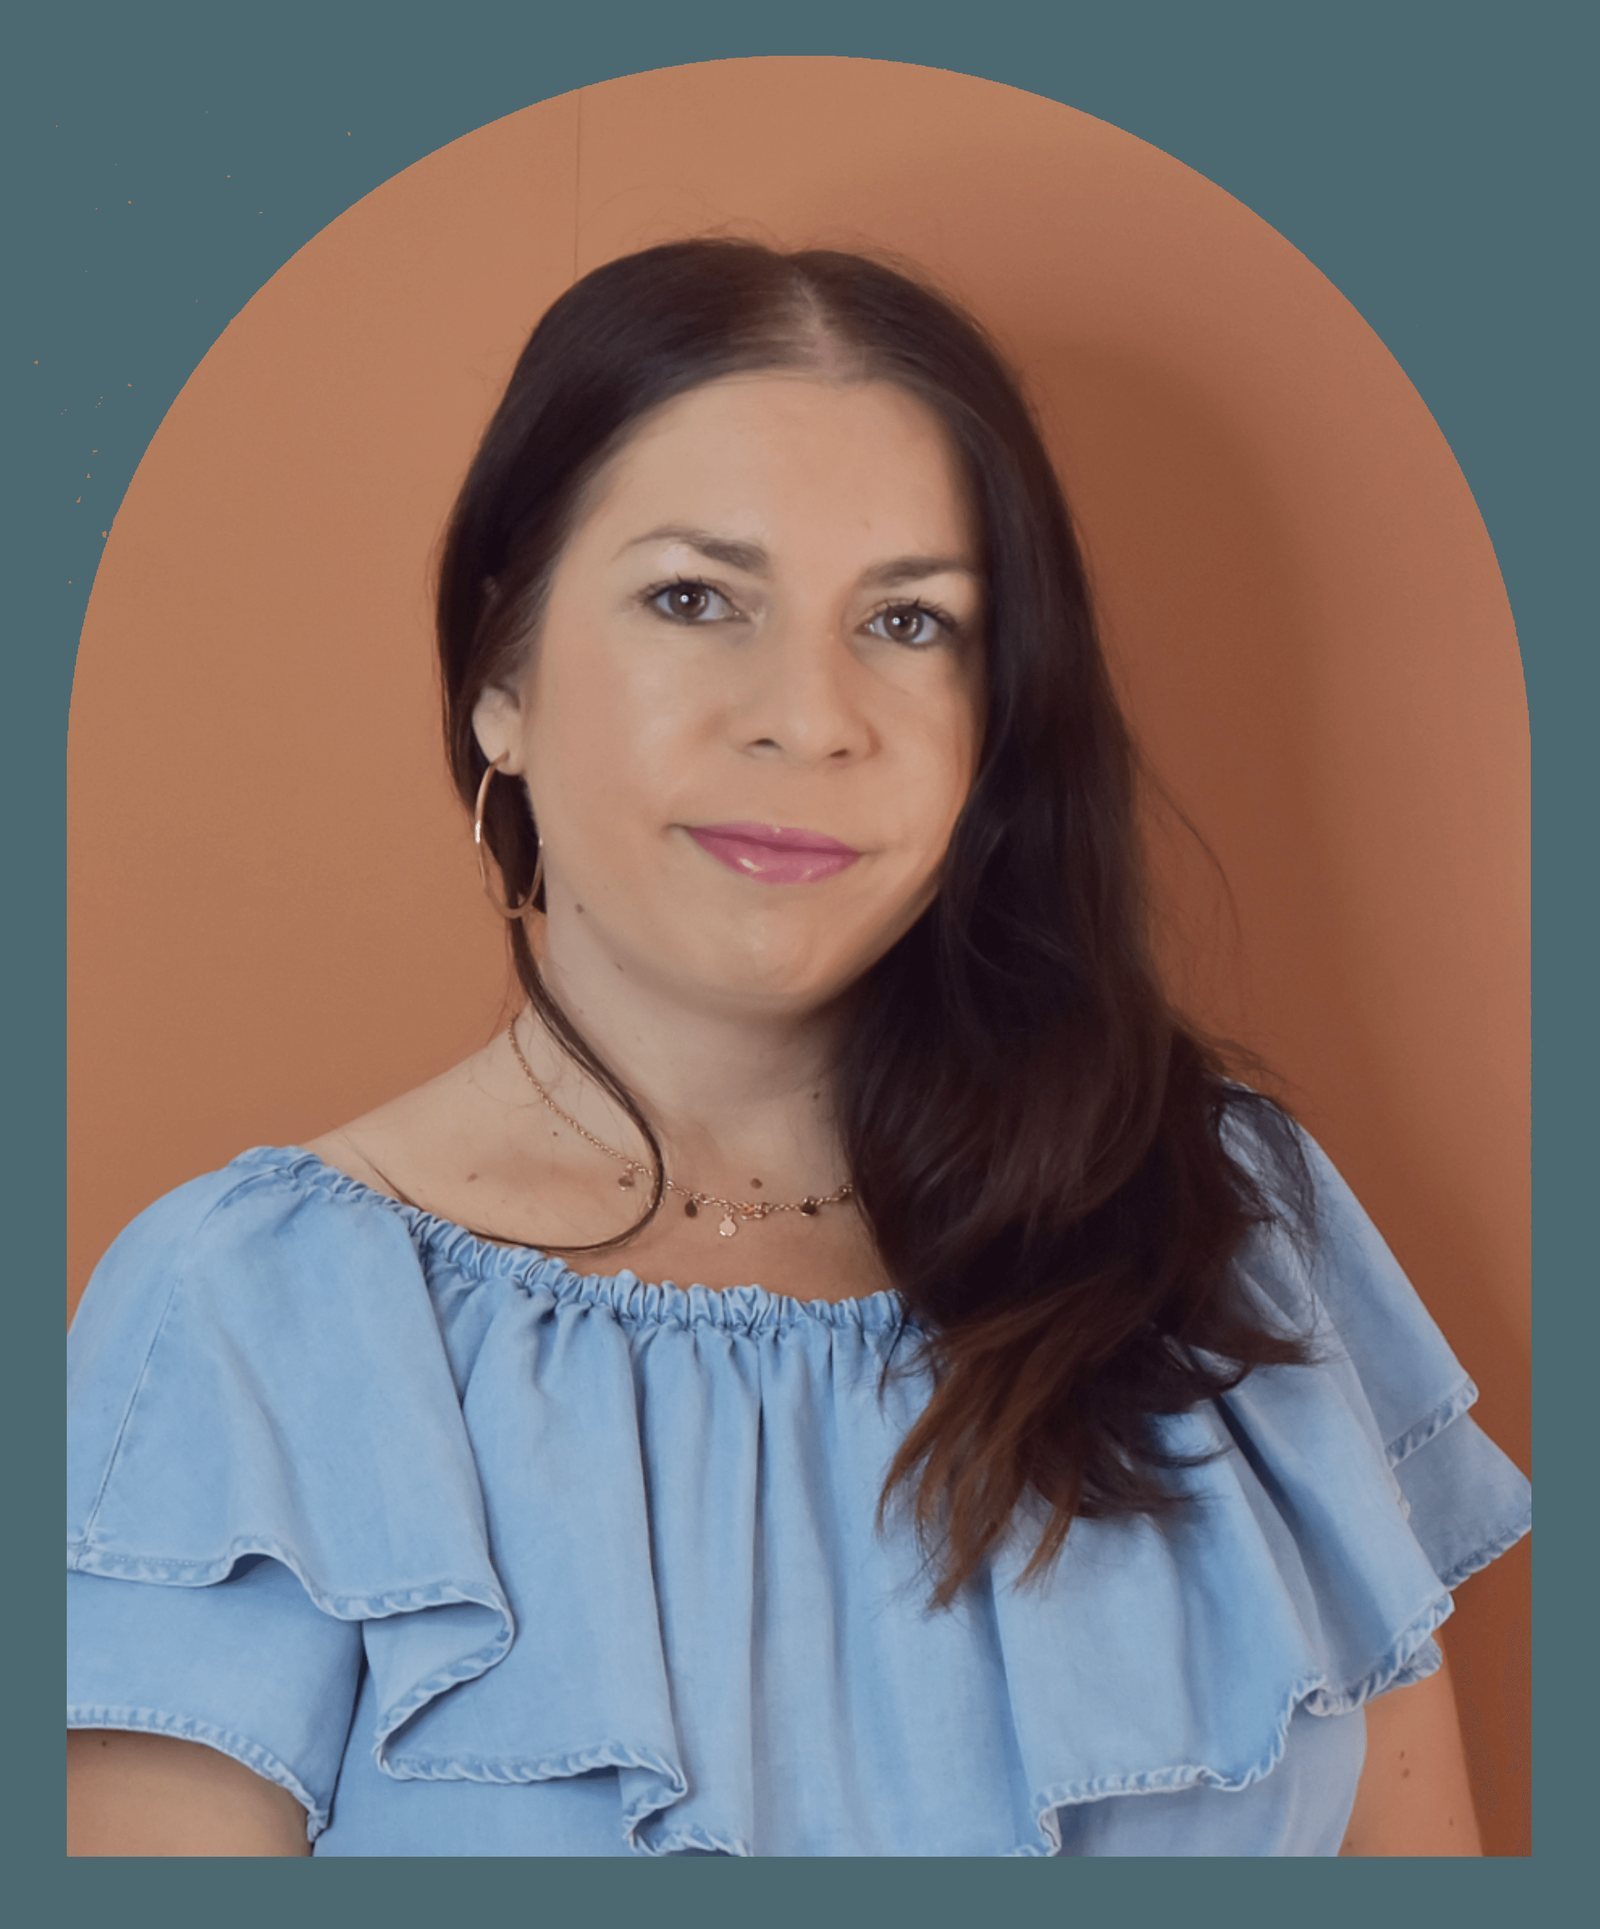
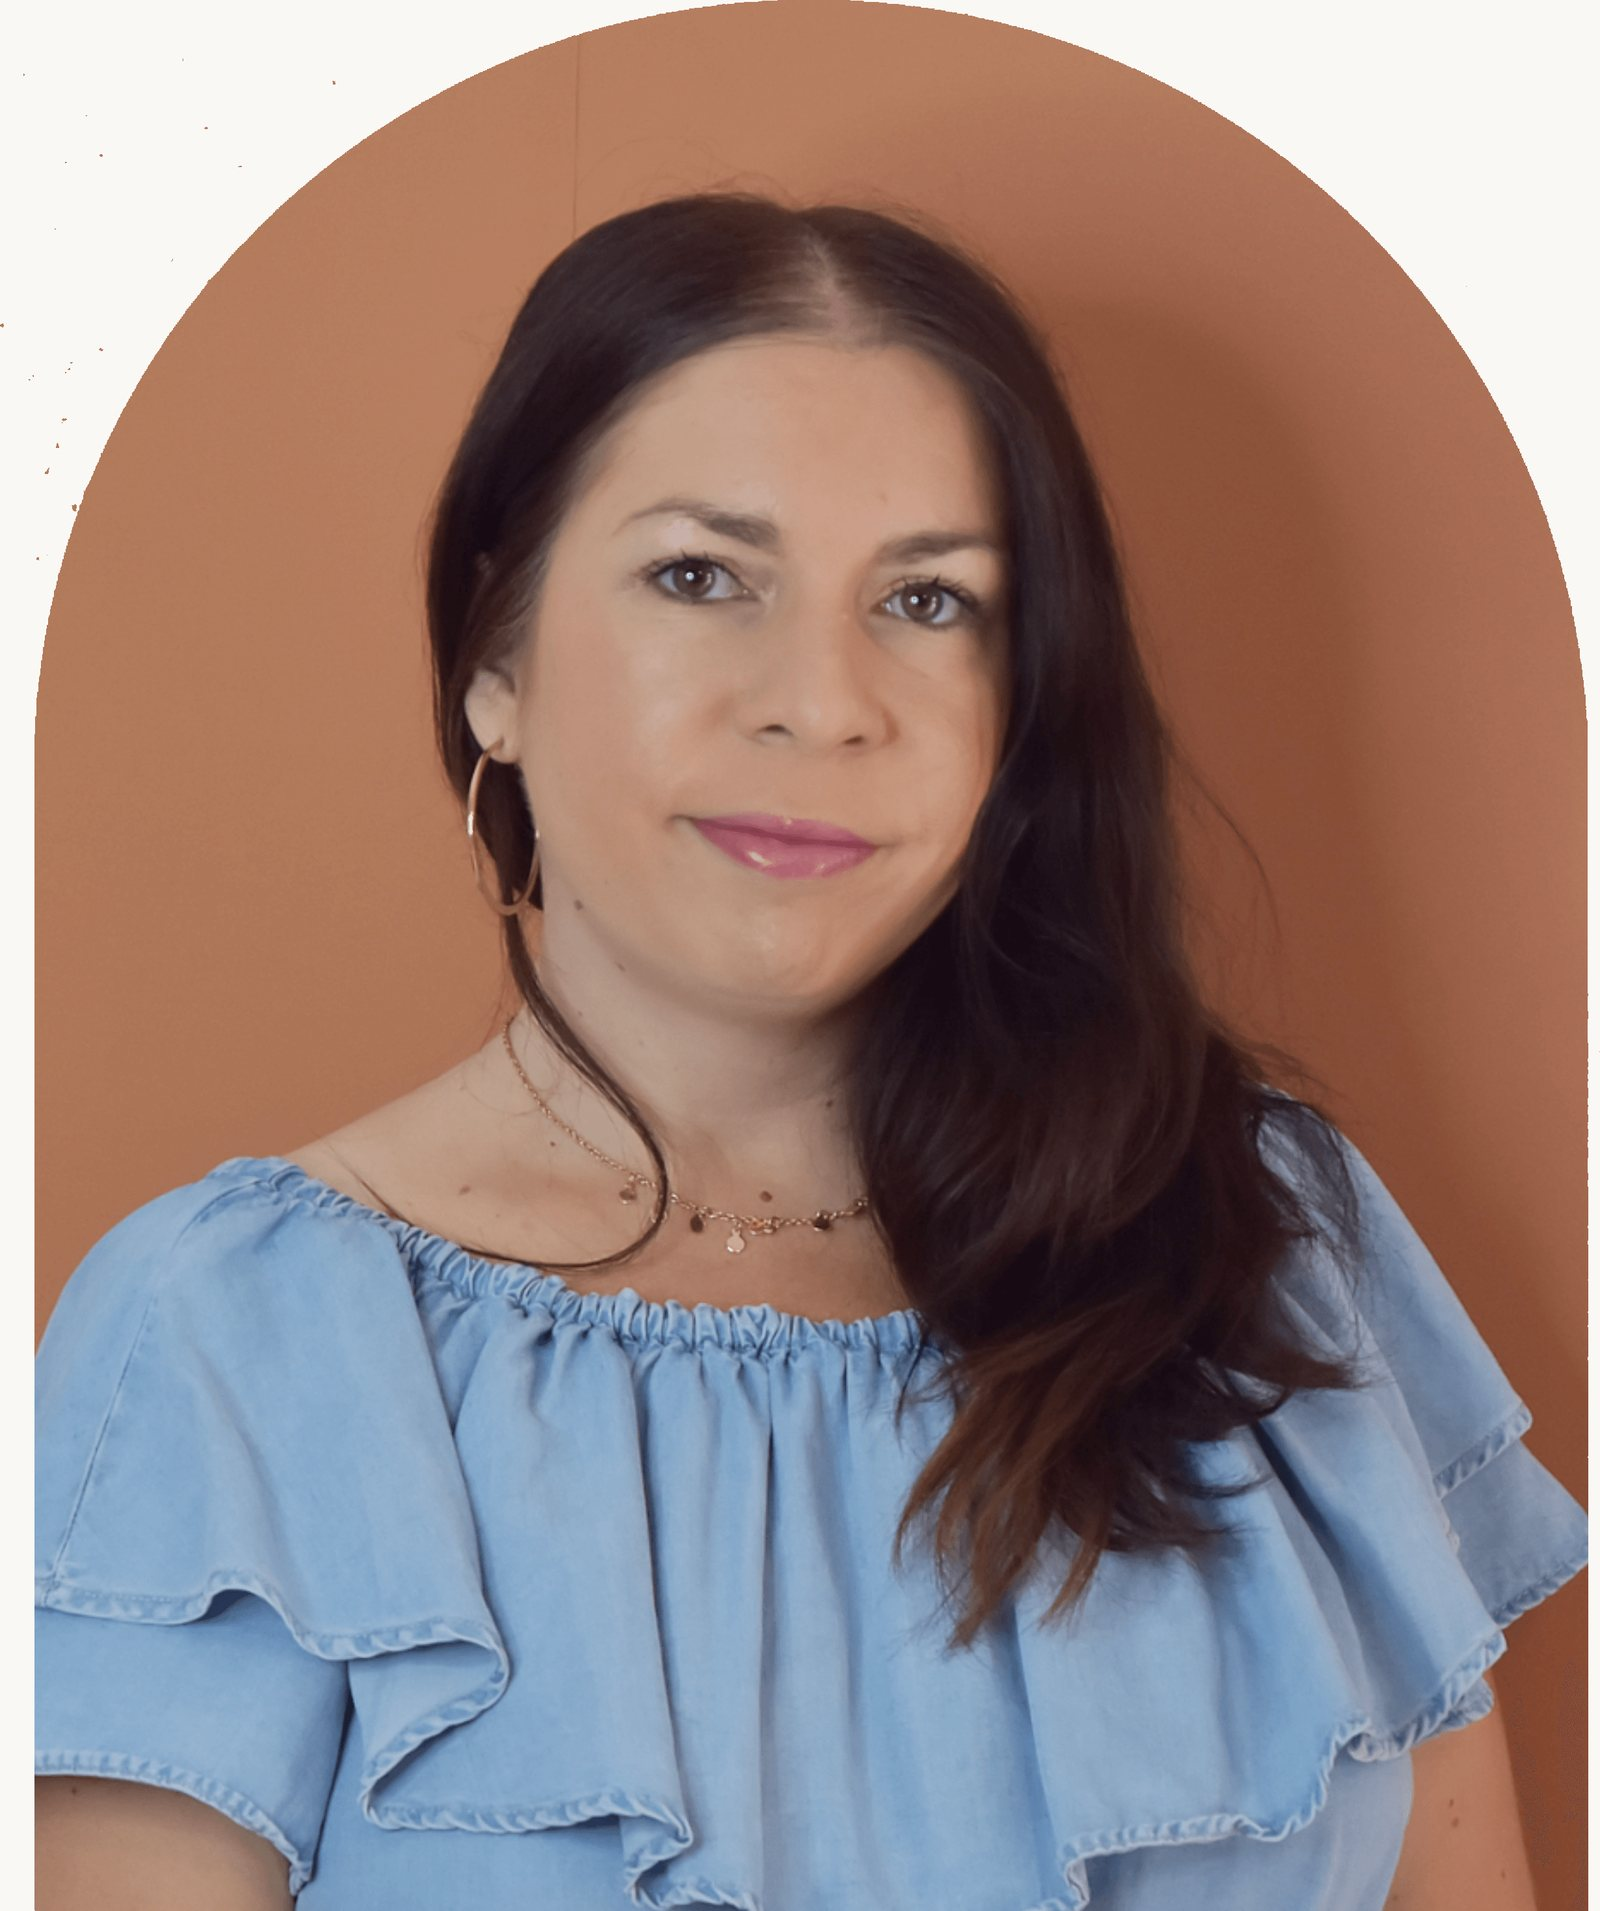
fix(visuels): portrait sur fond crème recadré sur l'arche, textes alternatifs fidèles au cadrage (suivi de revue)

diff --git a/src/config/media.ts b/src/config/media.ts
@@ -3,7 +3,8 @@
  * portrait). Importe des images : réservé aux composants et aux pages, `lib/` ne l'importe jamais.
  *
  * Images reprises de l'ancien site d'Amandine (2026-11-21) : rendus 3D en 2560 × 1440, portrait
- * en 2611 × 3148. TODO(contenu): originaux HD (rendus 4K, portrait) à demander à Amandine.
+ * en 1600 × 1911 (source PNG détourée de 2611 × 3148, transparence remplie en crème
+ * `--color-cream`). TODO(contenu): originaux HD (rendus 4K, portrait) à demander à Amandine.
  */
 import type { ImageMetadata } from 'astro';
 import livingRendering from '@/assets/brand/rendu-salon-lumineux.jpg';
@@ -11,7 +12,7 @@ import kitchenRendering from '@/assets/brand/rendu-cuisine-verriere.jpg';
 import portraitImage from '@/assets/brand/portrait-amandine.jpg';
 // Seule paire « rendu 3D / photo du résultat » publiée par Amandine : chambre d'enfant sous combles.
 // Le rendu est recadré au point de vue de la photo, mais les deux prises de vue ne sont pas
-// identiques. TODO(contenu): paire cadrée à l'identique, photo du résultat en HD (actuelle : 760 px).
+// identiques. TODO(contenu): paire cadrée à l'identique, photo du résultat en HD (actuelle : 676 × 507).
 import compareRendering from '@/assets/projets/chambre-enfant-dinosaures/comparatif-rendu-3d.jpg';
 import compareResult from '@/assets/projets/chambre-enfant-dinosaures/comparatif-realise.jpg';
 
@@ -39,11 +40,11 @@ export interface SiteMedia {
 export const media: SiteMedia = {
   homeHero: {
     image: livingRendering,
-    alt: 'Rendu 3D d’un salon lumineux : canapé d’angle blanc, coussins orangés, tables basses en bois et mur en tasseaux',
+    alt: 'Rendu 3D d’un séjour lumineux : canapé blanc aux coussins orangés, tables basses en bois, cuisine ouverte sur mur de pierre',
   },
   methodHero: {
     image: kitchenRendering,
-    alt: 'Rendu 3D d’une cuisine ouverte : verrière noire, îlot blanc, tabourets en rotin et suspensions dorées',
+    alt: 'Rendu 3D d’une cuisine ouverte : meubles vert sauge, fenêtre en arche, comptoir blanc, tabourets en rotin et verrière noire',
   },
   methodCompare: {
     rendering: {
@@ -52,11 +53,11 @@ export const media: SiteMedia = {
     },
     result: {
       image: compareResult,
-      alt: 'Photo de la chambre réalisée : lit cabane en bois, mur vert d’eau, tapis rond en jute et suspension en rotin',
+      alt: 'Photo de la chambre réalisée : lit cabane en bois, mur vert sauge soutenu, tapis rond en jute et suspension en rotin',
     },
   },
   portrait: {
     image: portraitImage,
-    alt: 'Portrait d’Amandine Gaury en blouse bleu ciel à volants, devant une arche terre cuite sur fond bleu-vert',
+    alt: 'Portrait d’Amandine Gaury en blouse bleu ciel à volants, devant une arche terre cuite',
   },
 };

diff --git a/src/content/projets/chambre-enfant-dinosaures.md b/src/content/projets/chambre-enfant-dinosaures.md
@@ -24,7 +24,7 @@ gallery:
     alt: 'Rendu 3D du coin bureau : long plan en bois sur bacs de rangement, silhouette de dinosaure au mur, fenêtre de toit'
     kind: 3d
   - image: ../../assets/projets/chambre-enfant-dinosaures/05-apres.jpg
-    alt: 'Photo après travaux : lit cabane en bois naturel, mur vert profond, tapis rond en jute et bibliothèque basse'
+    alt: 'Photo après travaux : lit cabane en bois naturel, mur vert sauge soutenu, tapis rond en jute et bibliothèque basse'
     kind: apres
   - image: ../../assets/projets/chambre-enfant-dinosaures/06-apres.jpg
     alt: 'Photo après travaux : bureau en bois et bacs de rangement sous la fenêtre de toit, lambris peint en blanc'
@@ -53,7 +53,7 @@ beforeAfter:
     alt: 'Rendu 3D de la chambre vue de face : lit cabane blanc, commode blanche et dinosaures en peluche sur le tapis'
   result:
     image: ../../assets/projets/chambre-enfant-dinosaures/comparatif-realise.jpg
-    alt: 'Photo après travaux, vue de face : lit cabane en bois, mur vert profond et tapis rond en jute à pompons'
+    alt: 'Photo après travaux, vue de face : lit cabane en bois, mur vert sauge soutenu et tapis rond en jute à pompons'
 featured: false
 order: 5
 seo:

diff --git a/src/content/projets/meuble-tv-sur-mesure.md b/src/content/projets/meuble-tv-sur-mesure.md
@@ -47,7 +47,7 @@ Une pièce de vie encore vide, de grandes baies vitrées sur la campagne et une 
 
 ## Le mur TV, pièce maîtresse
 
-J’ai dessiné un meuble bas sur mesure qui court le long du mur, de part et d’autre de la cheminée. Des tasseaux de bois habillent le mur derrière la télévision et le coin banquette, et des étagères flottantes accueillent livres et objets. Une planche technique détaille ce meuble pour sa réalisation.
+J’ai dessiné un meuble bas sur mesure qui court le long du mur, de part et d’autre de la cheminée. Des tasseaux de bois habillent le mur derrière la télévision et le coin banquette, et des étagères flottantes accueillent livres et objets.
 
 ## Un coin repas et un salon tournés vers la nature
 
